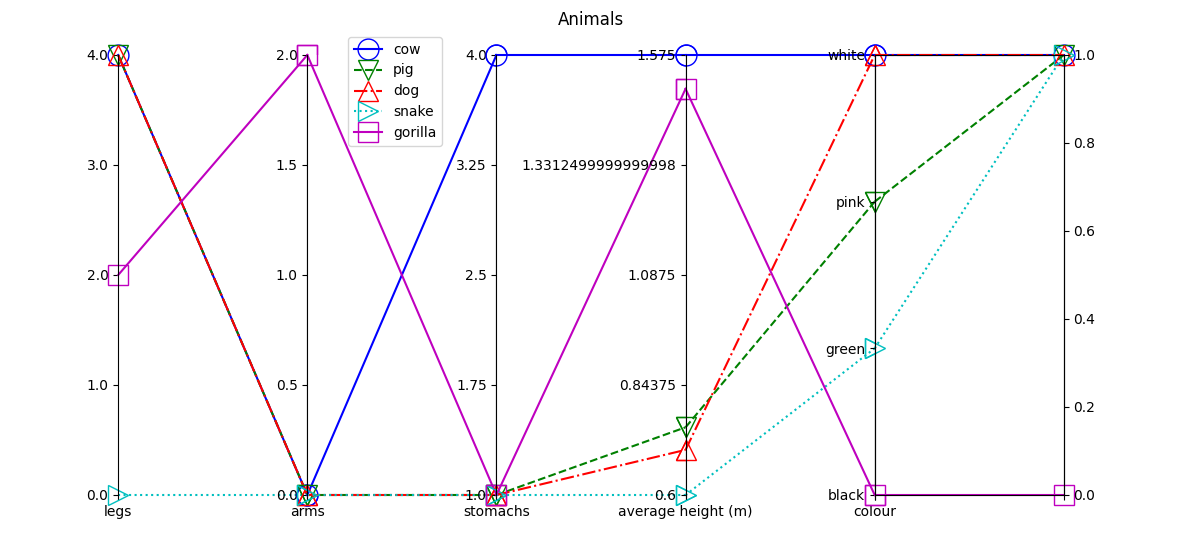
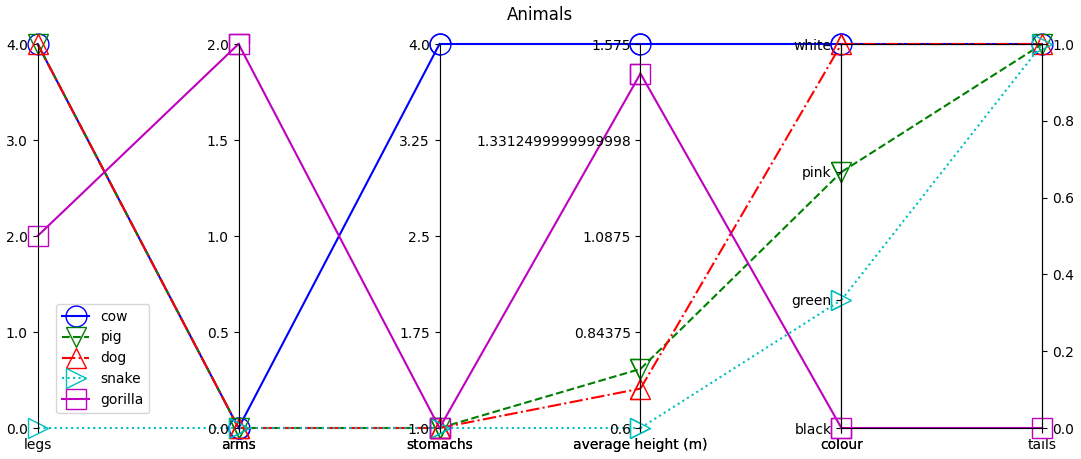
fixed last axis not being xlabelled

diff --git a/src/parallel_coordinate_plot/parallel_coordinate_plot.py b/src/parallel_coordinate_plot/parallel_coordinate_plot.py
@@ -74,31 +74,26 @@ def plot(
             The array of axes that have been plotted on
     """
 
-    # ensure the input parameters are of the correct types and will not cause errors
+    # ensure the mandatory arguments are of the correct types and will not cause errors
     _validate_headers_content(headers, content)
     # optional argument validation is handled by matplotlib internally
 
-    # generate a subplot with one row and one less than the number of headers columns
+    # generate a subplot with one row and (one less than the number of headers) columns
     fig, axs = plt.subplots(
         1,
         len(headers)-1,
         sharey=False,
         figsize=figsize
     )
-
-    normalized_content, header_yticks = _normalize_data(headers, content)
-
+    # add an extra axis to the right side of the plot and append it to the axes array
     axx = plt.twinx(axs[-1])
     axs = np.append(axs, axx)
 
+    # preprocess the data to map non-floating point values to floats and normalize the data within [0,1]
+    normalized_content, header_yticks = _normalize_data(headers, content)
+
+    # iterate through each adjacent-axis pair and plot the data
     for i, (ax, header) in enumerate(zip(axs, headers[:-1])):
-        ax.spines['top'].set_visible(False)
-        ax.spines['bottom'].set_visible(False)
-
-        ax.set_ylim([0,1])
-        ax.set_yticks(np.linspace(0,1, len(header_yticks[header])))
-        ax.set_yticklabels(header_yticks[header])
-
         for j, (key, value) in enumerate(list(normalized_content.items())):
             linestyle, color, marker = _get_plot_style(j)
 
@@ -114,9 +109,16 @@ def plot(
                 clip_on=False,
             )
 
+        ax.spines['top'].set_visible(False)
+        ax.spines['bottom'].set_visible(False)
+
+        ax.set_ylim([0,1])
+        ax.set_yticks(np.linspace(0,1, len(header_yticks[header])))
+        ax.set_yticklabels(header_yticks[header])
+
         ax.set_xlim([i,i+1])
         ax.set_xticks([i,i+1])
-        ax.set_xticklabels([headers[i], ''])
+        ax.set_xticklabels([headers[i], headers[i+1]])
 
     if title != 'none':
         fig.suptitle(title)
